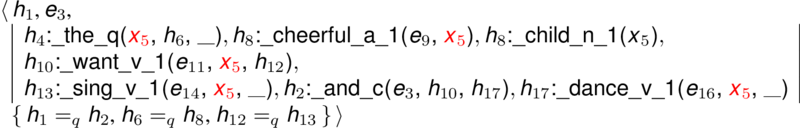
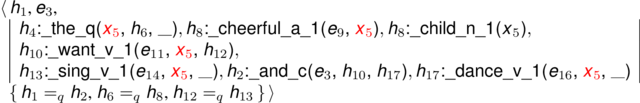
maybe limit ourselves to a maximum width of 640
git-svn-id: http://svn.delph-in.net/erg/tags/1214@25979 3df82f5b-d43a-0410-af33-fce91db48ec5

diff --git a/www/esd/essense/the-cheerful-children-wanted-to-sing-and-dance.tex b/www/esd/essense/the-cheerful-children-wanted-to-sing-and-dance.tex
@@ -1,0 +1,47 @@
+\documentclass[convert={density=300,size=640,outext=.png}]{standalone}
+\usepackage{relsize}
+\usepackage{times}
+\usepackage[utf8]{inputenc}
+\usepackage[T1]{fontenc}
+\usepackage{color}
+
+\usepackage{../mrs}
+\rolesfalse
+\propertiesfalse
+\lnkfalse
+
+%
+% red, blue, orange, green
+%
+\pagestyle{empty}
+
+\begin{document}
+
+\siblock{\sh{1}}{\svar{e}{3}{}}{%
+  \sep{\sh{4}}{\spred{\_the\_q\slnkc{0}{3}}}{%
+    \srole{ARG0}{\color{red}\svar{x}{5}{\svp{PERS}{3}, \svp{NUM}{pl}, \svp{IND}{+}}},
+    \srole{RSTR}{\svar{h}{6}{}},
+    \srole{BODY}{\srule{}}}, 
+  \sep{\sh{8}}{\spred{\_cheerful\_a\_1\slnkc{4}{12}}}{%
+    \srole{ARG0}{\svar{e}{9}{\svp{SF}{prop}, \svp{TENSE}{untensed}, \svp{MOOD}{indicative}, \svp{PROG}{-}, \svp{PERF}{-}}},
+    \srole{ARG1}{\color{red}\svar{x}{5}{}}}, 
+  \sep{\sh{8}}{\spred{\_child\_n\_1\slnkc{13}{21}}}{%
+    \srole{ARG0}{\svar{x}{5}{}}},\\
+  \sep{\sh{10}}{\spred{\_want\_v\_1\slnkc{22}{26}}}{%
+    \srole{ARG0}{\svar{e}{11}{\svp{SF}{prop}, \svp{TENSE}{pres}, \svp{MOOD}{indicative}, \svp{PROG}{-}, \svp{PERF}{-}}},
+    \srole{ARG1}{\color{red}\svar{x}{5}{}},
+    \srole{ARG2}{\svar{h}{12}{}}},\\
+  \sep{\sh{13}}{\spred{\_sing\_v\_1\slnkc{30}{34}}}{%
+    \srole{ARG0}{\svar{e}{14}{\svp{SF}{prop}, \svp{TENSE}{untensed}, \svp{MOOD}{indicative}, \svp{PROG}{-}, \svp{PERF}{-}}},
+    \srole{ARG1}{\color{red}\svar{x}{5}{}},
+    \srole{ARG2}{\srule{}}},
+  \sep{\sh{2}}{\spred{\_and\_c\slnkc{35}{38}}}{%
+    \srole{ARG0}{\svar{e}{3}{\svp{SF}{prop}, \svp{TENSE}{pres}, \svp{MOOD}{indicative}, \svp{PROG}{-}, \svp{PERF}{-}}},
+    \srole{ARG1}{\svar{h}{10}{}},
+    \srole{ARG2}{\svar{h}{17}{}}},
+  \sep{\sh{17}}{\spred{\_dance\_v\_1\slnkc{39}{45}}}{%
+    \srole{ARG0}{\svar{e}{16}{}},
+    \srole{ARG1}{\color{red}\svar{x}{5}{}},
+    \srole{ARG2}{\srule{}}}}
+  {\sqeq{1}{2}, \sqeq{6}{8}, \sqeq{12}{13}}
+\end{document}
